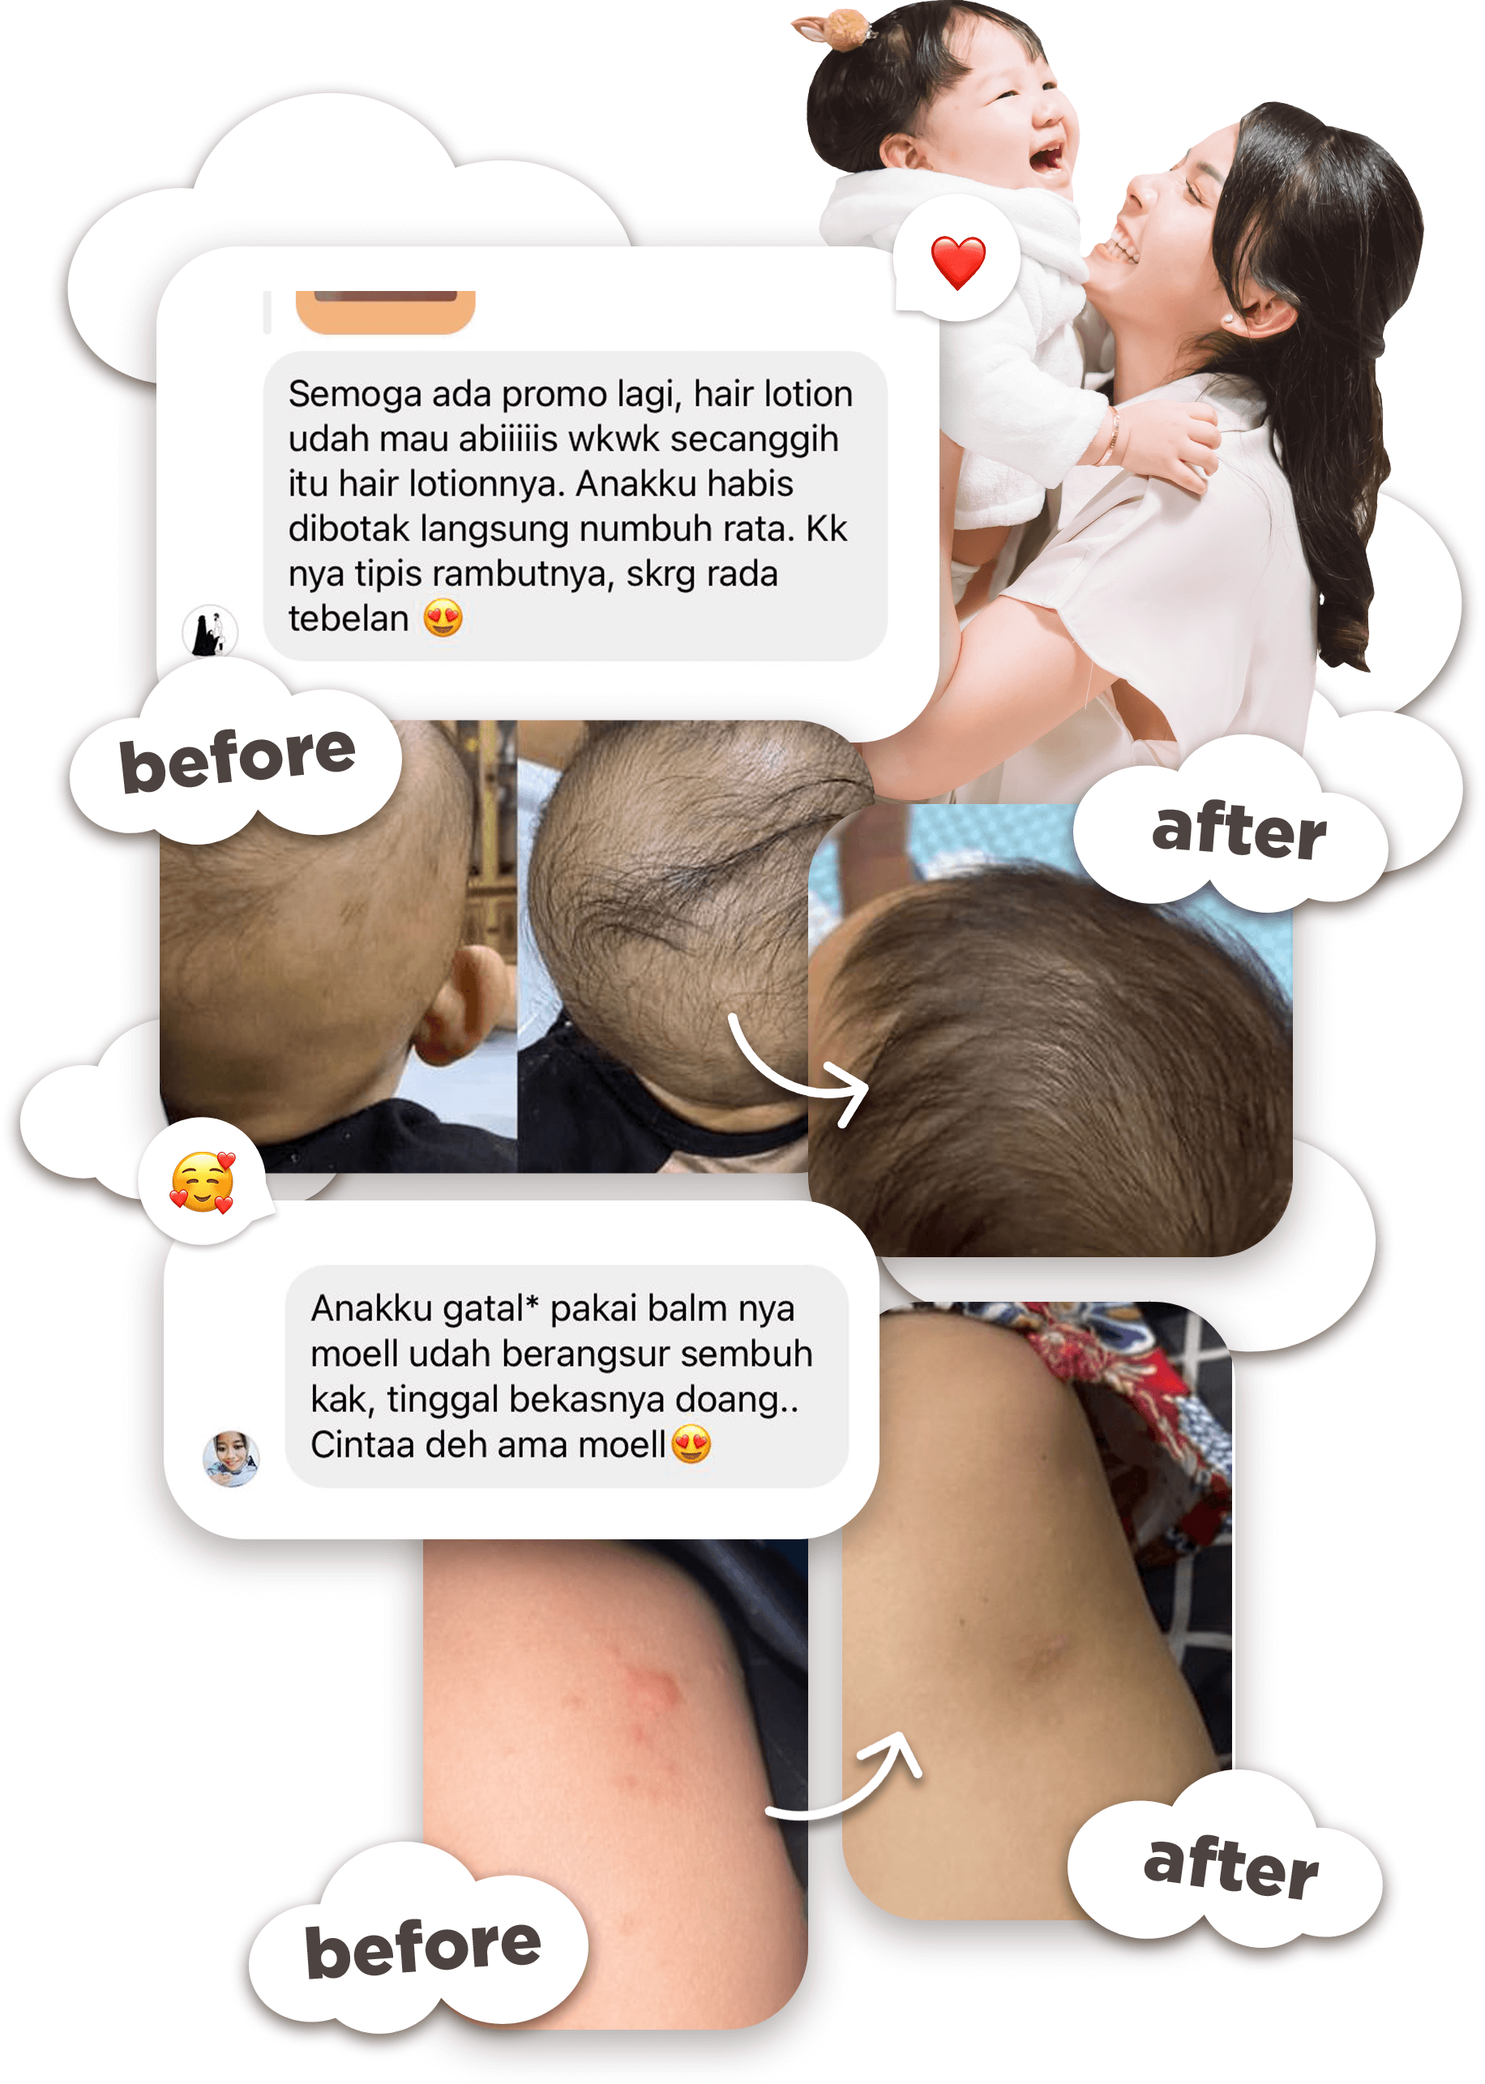
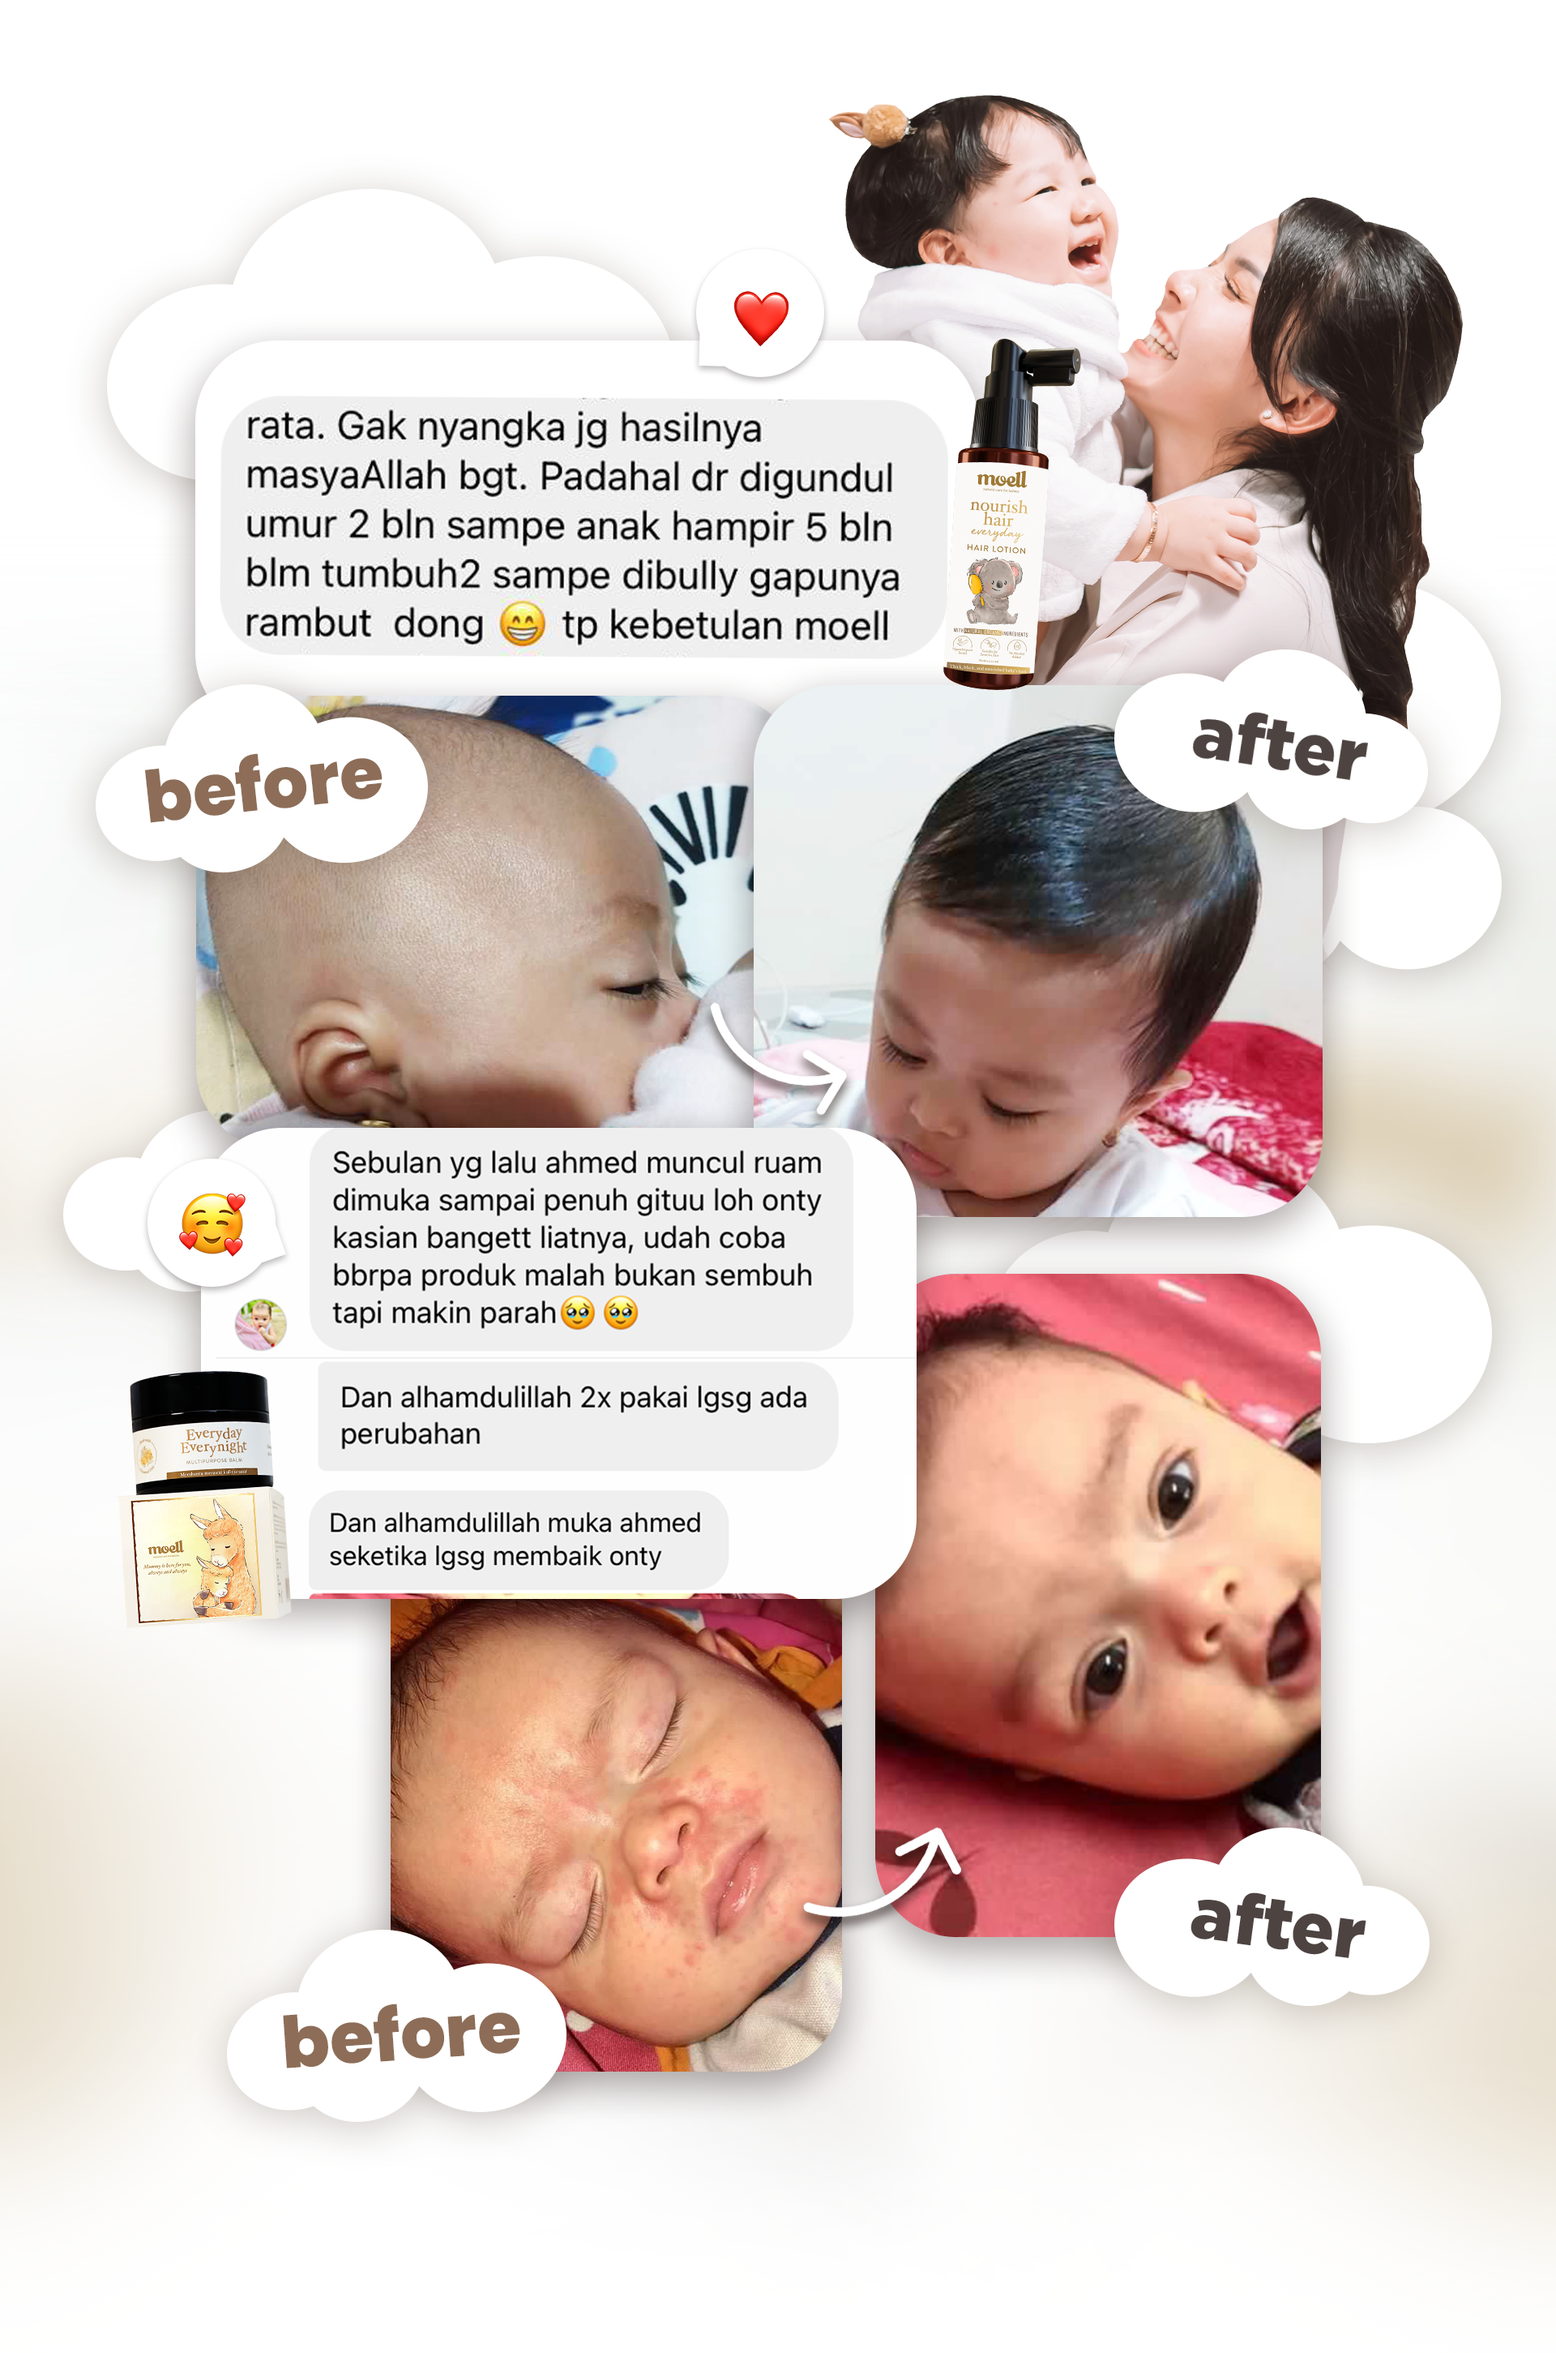
change bg

diff --git a/src/components/Home_v1.vue b/src/components/Home_v1.vue
@@ -60,7 +60,7 @@ defineProps({
                                 <div class="wrap-button">
                                     <div class="wrap-img"><img src="../assets/images/shopee.png" alt=""></div>
 
-                                <div class="wrap-text">
+                                    <div class="wrap-text">
                                         Order via Shopee
                                     </div>
                                 </div>
@@ -83,7 +83,7 @@ defineProps({
                 <div class="column is-12-mobile is-12-tablet pt-0 is-relative">
                     <p class="text-intro">Everyone Loves Moell</p>
                     <!-- <p class="text-intro">What they say about Moell Natural Care for Babies</p> -->
-                    <img src="../assets/images/bg-7.png" alt="" class="img-testi">
+                    <img src="../assets/images/bg-7.png" alt="" class="img-testi p-0">
                 </div>
                 <div class="column is-12-mobile is-12-tablet">
                     <!-- <div class="divider"></div> -->
@@ -118,8 +118,8 @@ defineProps({
                                 <div class="wrap-button">
                                     <div class="wrap-img"><img src="../assets/images/shopee.png" alt=""></div>
 
-                                <div class="wrap-text">
-                                    Order via Shopee
+                                    <div class="wrap-text">
+                                        Order via Shopee
                                     </div>
                                 </div>
                             </a>

diff --git a/src/components/Home.vue b/src/components/Home.vue
@@ -48,8 +48,8 @@ defineProps({
                   <div class="wrap-img"><img src="../assets/images/shopee.png" alt=""></div>
 
                   <div class="wrap-text">
-                  Order via Shopee
-                </div>
+                    Order via Shopee
+                  </div>
                 </div>
               </a>
             </div>
@@ -70,7 +70,7 @@ defineProps({
         <div class="column is-12-mobile is-12-tablet pt-0 is-relative">
           <p class="text-intro">Everyone Loves Moell</p>
           <!-- <p class="text-intro">What they say about Moell Natural Care for Babies</p> -->
-          <img src="../assets/images/bg-7.png" alt="" class="img-testi">
+          <img src="../assets/images/bg-7.png" alt="" class="img-testi p-0">
         </div>
         <div class="column is-12-mobile is-12-tablet">
           <!-- <div class="divider"></div> -->
@@ -106,9 +106,9 @@ defineProps({
                   <div class="wrap-img"><img src="../assets/images/shopee.png" alt=""></div>
 
                   <div class="wrap-text">
-                  Order via Shopee
+                    Order via Shopee
+                  </div>
                 </div>
-              </div>
               </a>
             </div>
           </div>

diff --git a/src/components/Preview.vue b/src/components/Preview.vue
@@ -96,7 +96,7 @@ defineProps({
                     </div>
                 </div>
                 <div class="column is-12-mobile is-12-tablet pt-0 is-relative">
-                    <img src="../assets/images/bg-10.png" alt="" class="img-testi">
+                    <img src="../assets/images/bg-10.png" alt="" class="img-testi p-0">
                 </div>
             </div>
         </div>

diff --git a/src/components/Landing.vue b/src/components/Landing.vue
@@ -94,7 +94,7 @@ defineProps({
           </div>
         </div>
         <div class="column is-12-mobile is-12-tablet pt-0 is-relative">
-          <img src="../assets/images/bg-10.png" alt="" class="img-testi">
+          <img src="../assets/images/bg-10.png" alt="" class="img-testi p-0">
         </div>
       </div>
     </div>
